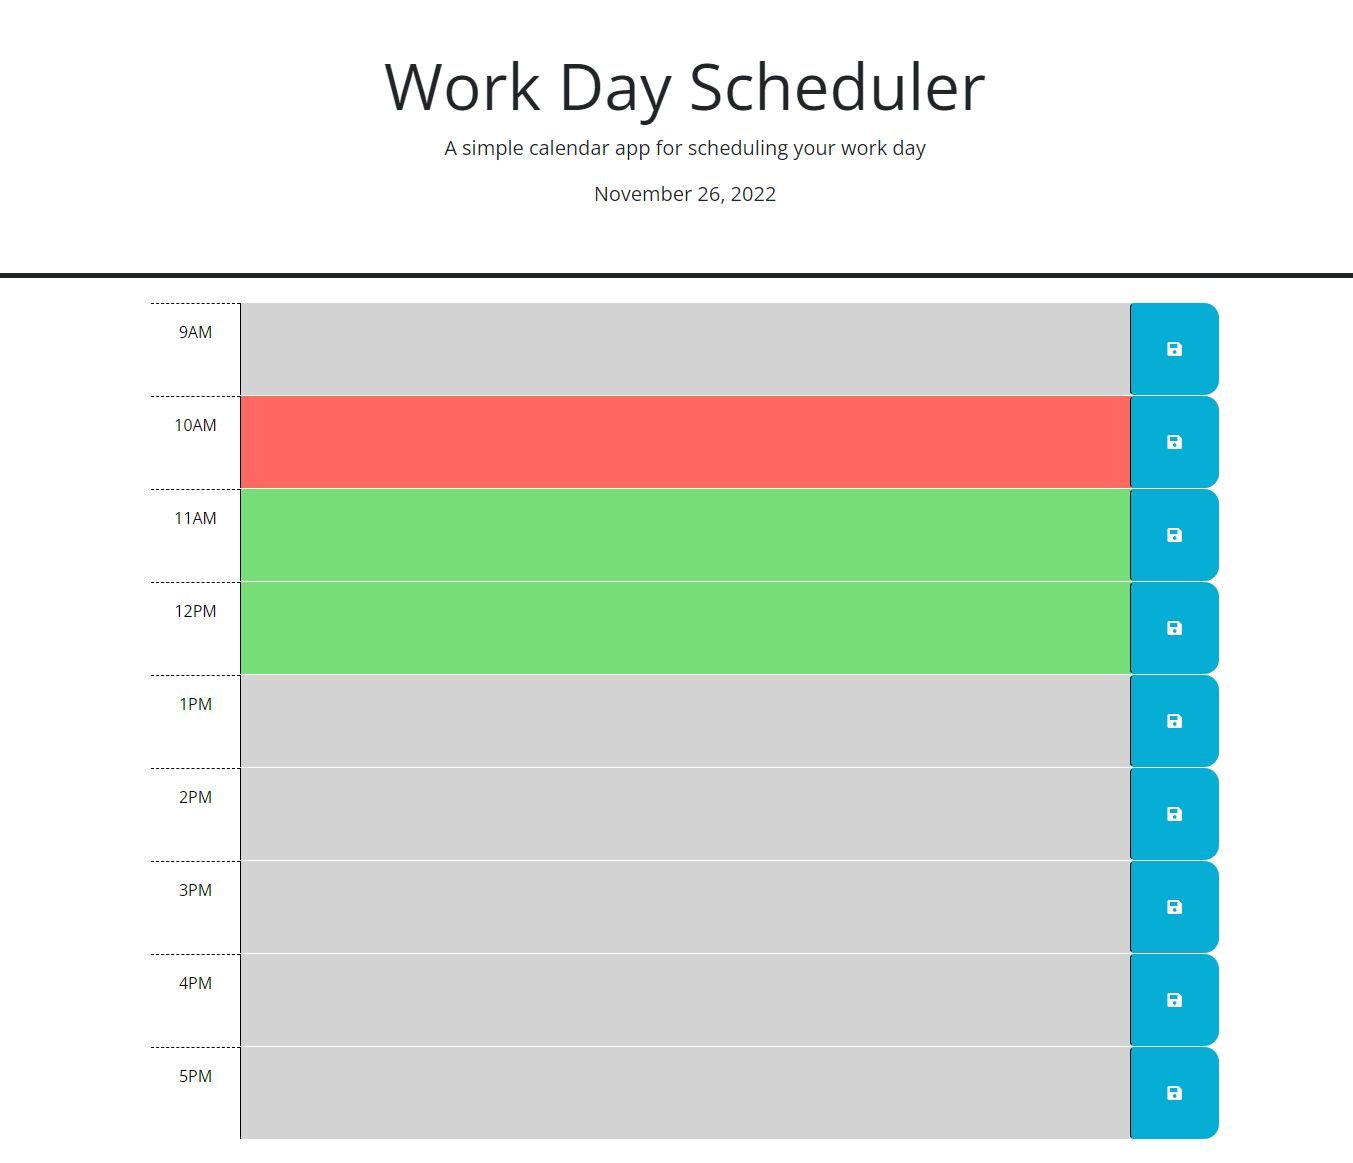
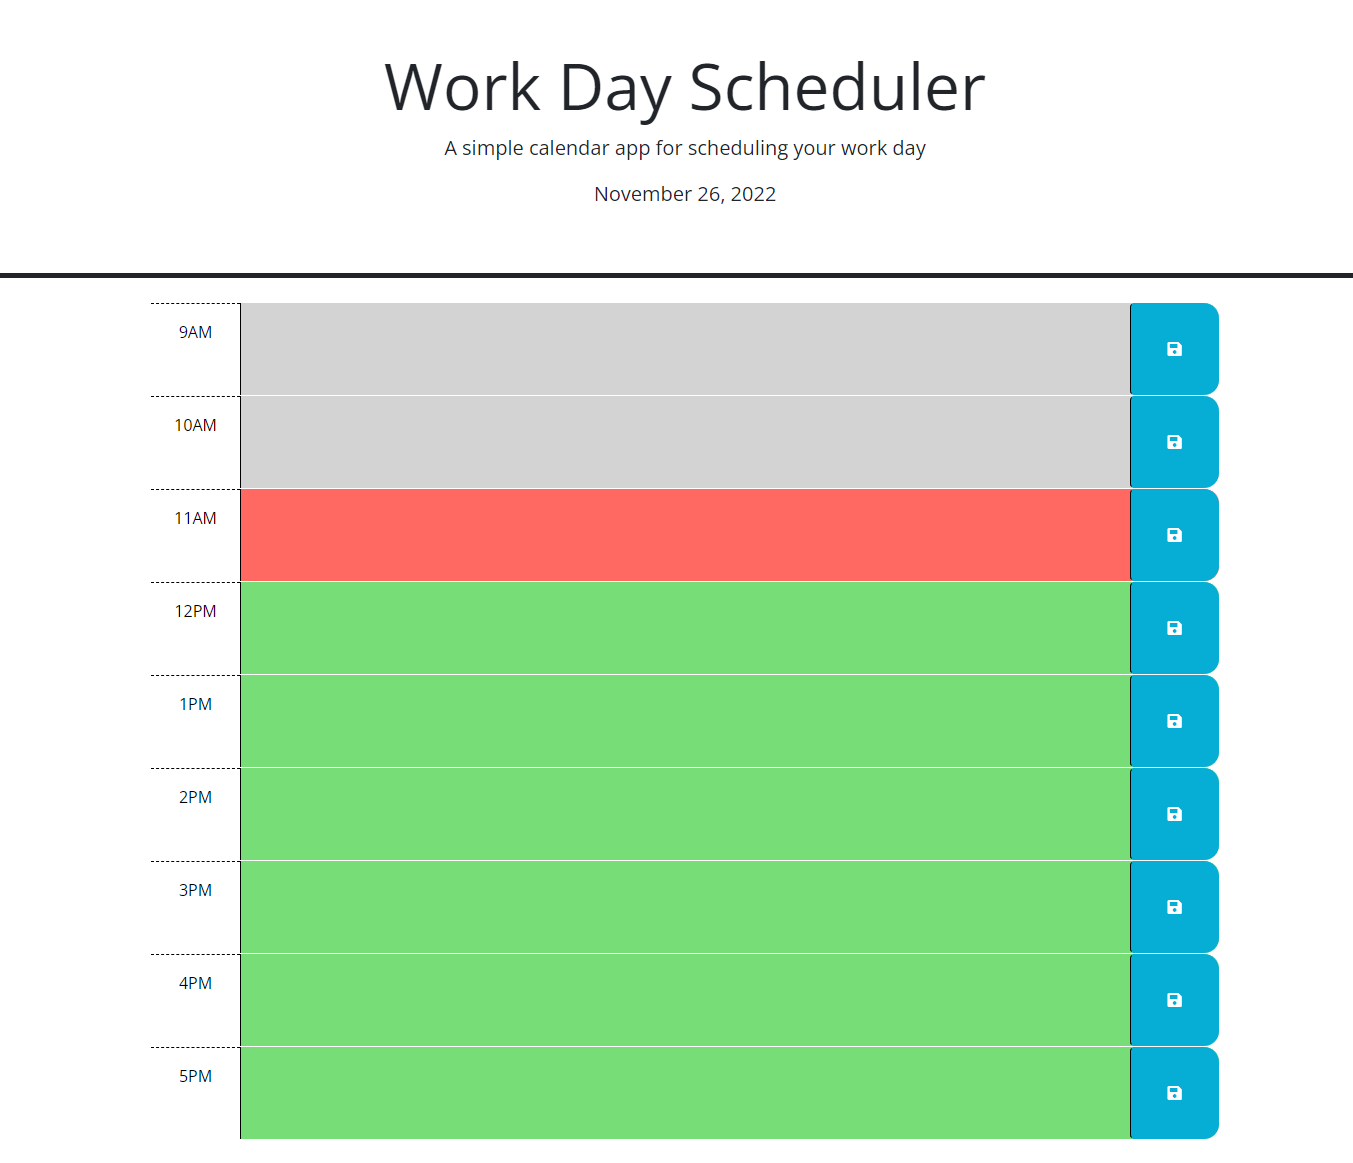
fixed problem with PM timeblocks not displaying correct color. finished readme

diff --git a/index.html b/index.html
@@ -53,7 +53,7 @@
       </button>
     </div>
 
-    <div id="hour-1" class="row time-block">
+    <div id="hour-13" class="row time-block">
       <div class="col-2 col-md-1 hour text-center py-3">1PM</div>
       <textarea class="col-8 col-md-10 description" rows="3"> </textarea>
       <button class="btn saveBtn col-2 col-md-1" aria-label="save">
@@ -61,7 +61,7 @@
       </button>
     </div>
 
-    <div id="hour-2" class="row time-block">
+    <div id="hour-14" class="row time-block">
       <div class="col-2 col-md-1 hour text-center py-3">2PM</div>
       <textarea class="col-8 col-md-10 description" rows="3"> </textarea>
       <button class="btn saveBtn col-2 col-md-1" aria-label="save">
@@ -69,7 +69,7 @@
       </button>
     </div>
 
-    <div id="hour-3" class="row time-block">
+    <div id="hour-15" class="row time-block">
       <div class="col-2 col-md-1 hour text-center py-3">3PM</div>
       <textarea class="col-8 col-md-10 description" rows="3"> </textarea>
       <button class="btn saveBtn col-2 col-md-1" aria-label="save">
@@ -77,7 +77,7 @@
       </button>
     </div>
 
-    <div id="hour-4" class="row time-block">
+    <div id="hour-16" class="row time-block">
       <div class="col-2 col-md-1 hour text-center py-3">4PM</div>
       <textarea class="col-8 col-md-10 description" rows="3"> </textarea>
       <button class="btn saveBtn col-2 col-md-1" aria-label="save">
@@ -85,7 +85,7 @@
       </button>
     </div>
 
-    <div id="hour-5" class="row time-block">
+    <div id="hour-17" class="row time-block">
       <div class="col-2 col-md-1 hour text-center py-3">5PM</div>
       <textarea class="col-8 col-md-10 description" rows="3"> </textarea>
       <button class="btn saveBtn col-2 col-md-1" aria-label="save">

diff --git a/README.md b/README.md
@@ -2,7 +2,7 @@
 
 # Link
 
-XXXXXXXXXXXXXXXXXXXXXXXXXXXXXXXX
+https://williamgeorgethomas.github.io/work-day-scheduler/
 
 # Purpose
 
